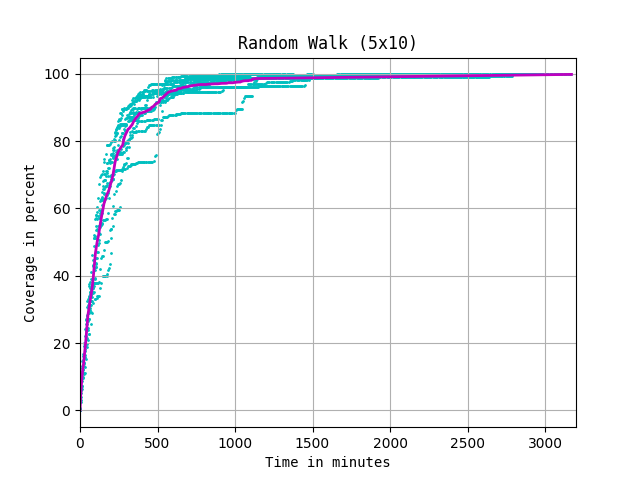
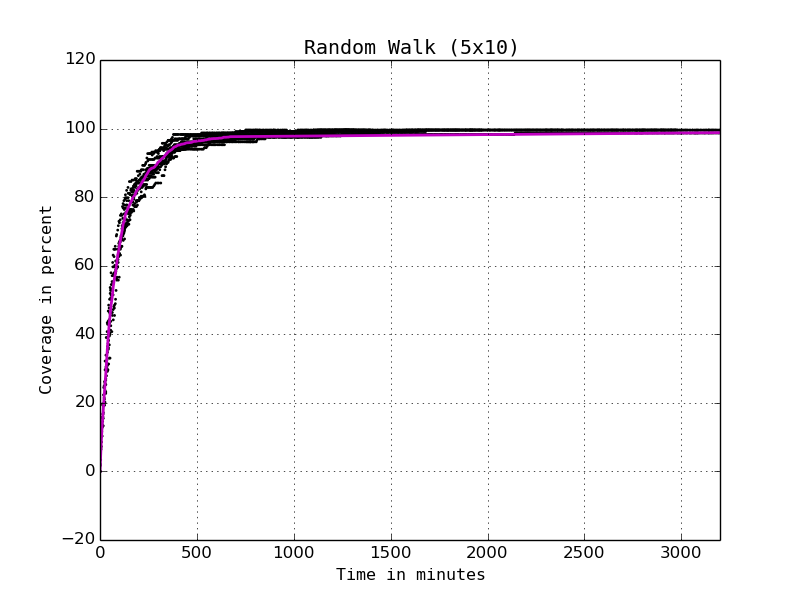
2D: fixed a mistake in updating the positive quadrant representation of the world

diff --git a/2D-plot/random-walk/coverageplotrandom.py b/2D-plot/random-walk/coverageplotrandom.py
@@ -1,6 +1,5 @@
 import matplotlib.pyplot as plt
 import csv
-import pandas as pd
 
 mono_font = {'fontname':'monospace'}
 
@@ -19,18 +18,18 @@ with open('time.csv') as csvfile:
 x = []
 y = []
 def compute_mean():
-    for i in range(175):
+    for i in range(18):
         mean_time = (time_data[0][i] + time_data[1][i] + time_data[2][i] + time_data[3][i] + time_data[4][i] + time_data[5][i] + time_data[6][i] + time_data[7][i] + time_data[8][i] + time_data[9][i]) / 10
         x.append(mean_time)
         mean_cov = (cov_data[0][i] + cov_data[1][i] + cov_data[2][i] + cov_data[3][i] + cov_data[4][i] + cov_data[5][i] + cov_data[6][i] + cov_data[7][i] + cov_data[8][i] + cov_data[9][i]) / 10
         y.append(mean_cov)
 
-    #for i in range(20):
-    #    j = 50
-    #    mean_time = (time_data[2][i+j] + time_data[0][i+j] + time_data[8][i+j]) / 3
-    #    x.append(mean_time)
-    #    mean_cov = (cov_data[2][i+j] + cov_data[0][i+j] + cov_data[8][i+j]) / 3
-    #    y.append(mean_cov)
+    for i in range(10):
+        j = 25
+        mean_time = (time_data[9][i+j] + time_data[6][i+j] + time_data[2][i+j]) / 3
+        x.append(mean_time)
+        mean_cov = (cov_data[9][i+j] + cov_data[6][i+j] + cov_data[2][i+j]) / 3
+        y.append(mean_cov)
 
     x.append(time_data[6][len(time_data[6])-1])
     y.append(cov_data[6][len(cov_data[6])-1])  
@@ -44,14 +43,14 @@ def plot_mean():
     plt.plot(x, y, linewidth=2, color='m')
 
 def plot_labels():
-    plt.title('Random Walk (5x10)', **mono_font)
+    plt.title('Random Walk Centered Start (3x3)', **mono_font)
     plt.xlabel("Time in minutes", **mono_font)
     plt.ylabel("Coverage in percent", **mono_font)
     plt.grid()
-    plt.savefig("graph_random_5x10_10_runs.png")
+    plt.savefig("graph_random_3x3_center_10_runs.png")
     plt.show()
 
-plt.xlim(right=3200)
+plt.xlim(right=500)
 plot_data()
 plot_mean()
 plot_labels()

diff --git a/2D/src/World.java b/2D/src/World.java
@@ -43,10 +43,10 @@ public class World {
     }
 
     public void updateCoverage(List<Point2D> points) {
-        System.out.println(getCoveragePercentage());
         for (Point2D p : points) {
             updateCoverage(p);
         }
+        System.out.println(getCoveragePercentage());
     }
 
     public void updateCoverage(Point2D p) {
@@ -109,39 +109,8 @@ public class World {
     }
 
     public void createSamplingOfPointsPositiveQuadrant() {
-        unCoveredPoints.clear();
-        pointsToCover.clear();
-
-        int width = (int) Math.floor(W/chamberDiameter);
-        int equalWidth = (width % 2 == 0) ? width : width + 1;
-        int height = (int) Math.floor(H/chamberDiameter);
-        int equalHeight = (height % 2 == 0) ? height : height + 1;
-
-        double x = 0;
-        for (int i = 0; i < equalWidth; i++) {
-            double y = 0;
-            for (int j = 0; j < equalHeight*2; j++) {
-                double loc_x = 0;
-                if (j % 2 == 0) loc_x = x;
-                else loc_x = x + 0.2;
-
-                loc_x = normalizeTo1Decimal(loc_x);
-                y = normalizeTo1Decimal(y);
-
-                if (loc_x == 0 && y == 0) {
-                    pointsToCover.add(new Point2D(loc_x, y));
-                } else if (y == 0) {
-                    pointsToCover.add(new Point2D(loc_x, y));    // 1. quadrant
-                } else if (loc_x == 0) {
-                    pointsToCover.add(new Point2D(loc_x, y));    // 1. quadrant
-                } else {
-                    pointsToCover.add(new Point2D(loc_x, y));    // 1. quadrant
-                }
-                y += 0.2;
-            }
-            x += 0.4;
+        for (Point2D p : pointsToCover) {
+            p.add(W, H);
         }
-        unCoveredPoints.addAll(pointsToCover);
-        size = unCoveredPoints.size();
     }
 }

diff --git a/2D/src/Main.java b/2D/src/Main.java
@@ -3,18 +3,18 @@ public class Main
     public static void main(String[] args)
     {
         Simulator sim = new Simulator();
-        World world = new World(5, 10, 0.4);
+        World world = new World(3, 3, 0.4);
         Lappa lappa = new Lappa(sim, world);
-        SnakeController c = new SnakeController(lappa, world);
-        c.snakeWalkRecordResults();
+        RandomWalkController c = new RandomWalkController(lappa, world);
+        c.randomWalkRecordResult();
         c.writeToFiles();
 
-        /*for (int i = 1; i < 10; i++) {
+        for (int i = 1; i < 10; i++) {
             world.preloadWorld();
             lappa.preloadAbsoluteMotorMovement();
-            c.snakeWalkRecordResults();
+            c.randomWalkRecordResult();
             c.writeToFiles();
-        }*/
+        }
 
         sim.stopSimulation();
     }

diff --git a/2D/src/Lappa.java b/2D/src/Lappa.java
@@ -129,7 +129,8 @@ public class Lappa {
     }
 
     private boolean isFallingOfArena(Point2D nextPoint) {
-        return Math.abs(nextPoint.getX()) > arenaW/2 || Math.abs(nextPoint.getY()) > arenaH/2;
+        return Math.abs(nextPoint.getX()) > arenaW || Math.abs(nextPoint.getY()) > arenaH;
+        //return Math.abs(nextPoint.getX()) > arenaW/2 || Math.abs(nextPoint.getY()) > arenaH/2;
     }
 
     private Point2D getFixedCenter(Chamber fixed, boolean isRecordingResults) {
